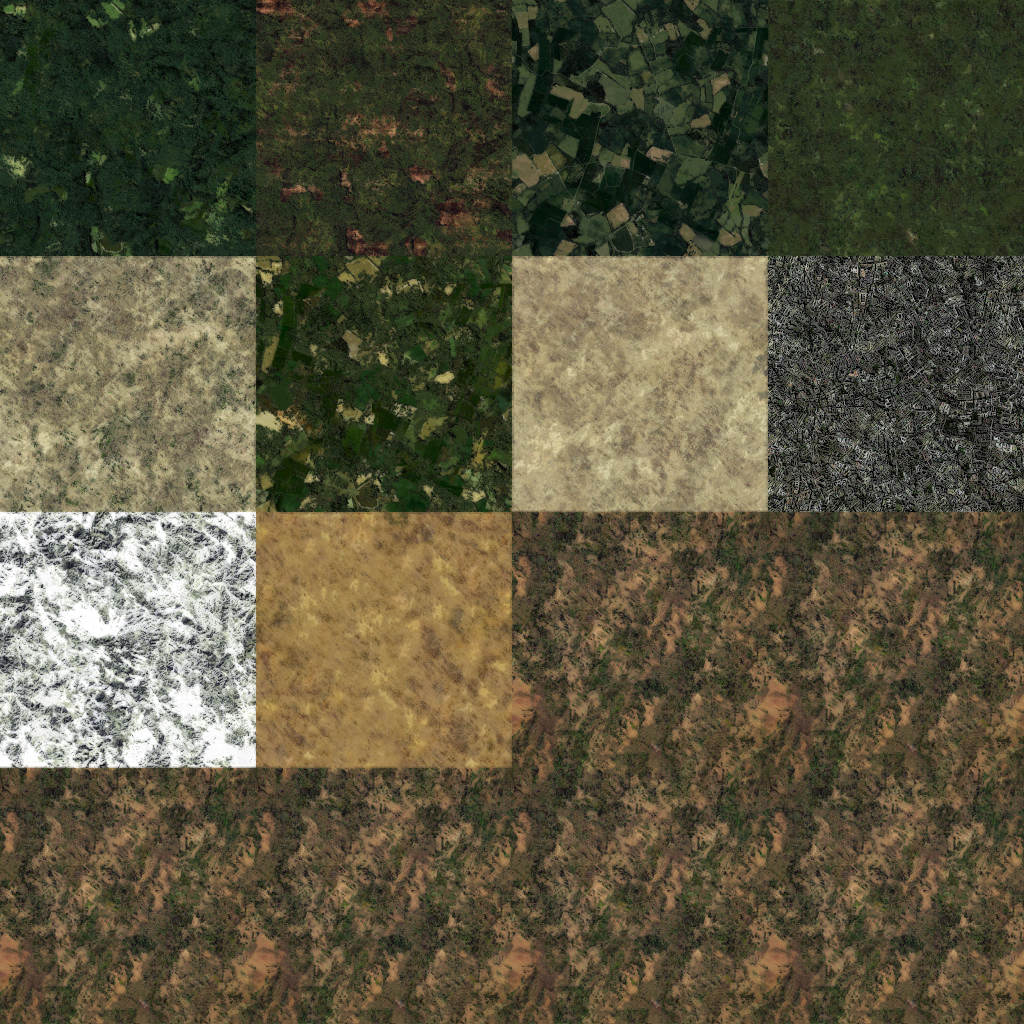
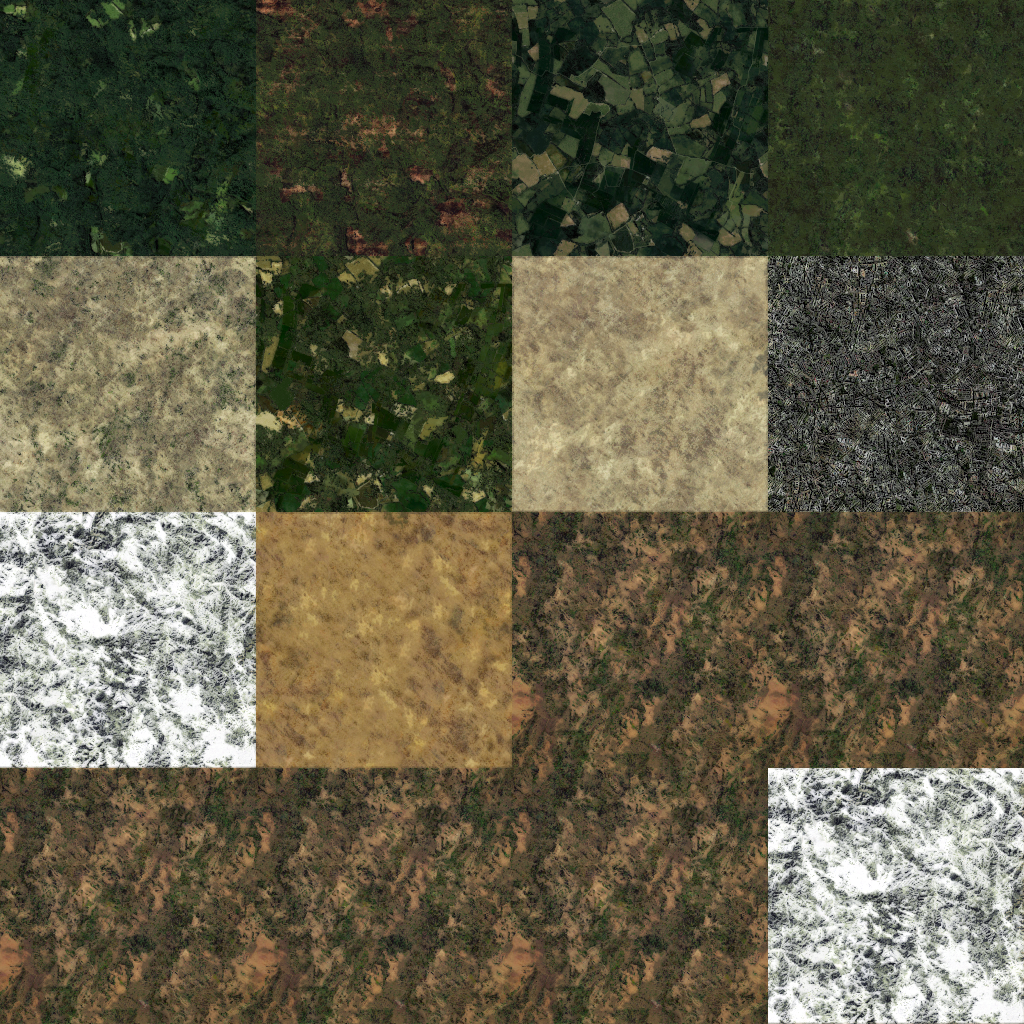
Seasonal snow effect

Changed region(s): [[0.75, 0.75, 1.0, 1.0]]

diff --git a/game/src/client/map_render.cpp b/game/src/client/map_render.cpp
@@ -461,6 +461,7 @@ void MapRender::draw(Eng3D::Camera* camera, MapView view_mode) {
     const auto millisec_since_epoch = std::chrono::duration_cast<std::chrono::milliseconds>(now).count();
     const auto time = static_cast<float>(millisec_since_epoch % 1000000) / 1000.f;
     map_shader->set_uniform("time", time);
+    map_shader->set_uniform("ticks", this->world.time);
     // Map should have no "model" matrix since it's always static
     map_shader->set_texture(0, "tile_sheet", *tile_sheet);
     map_shader->set_texture(1, "tile_sheet_nation", *tile_sheet_nation);
